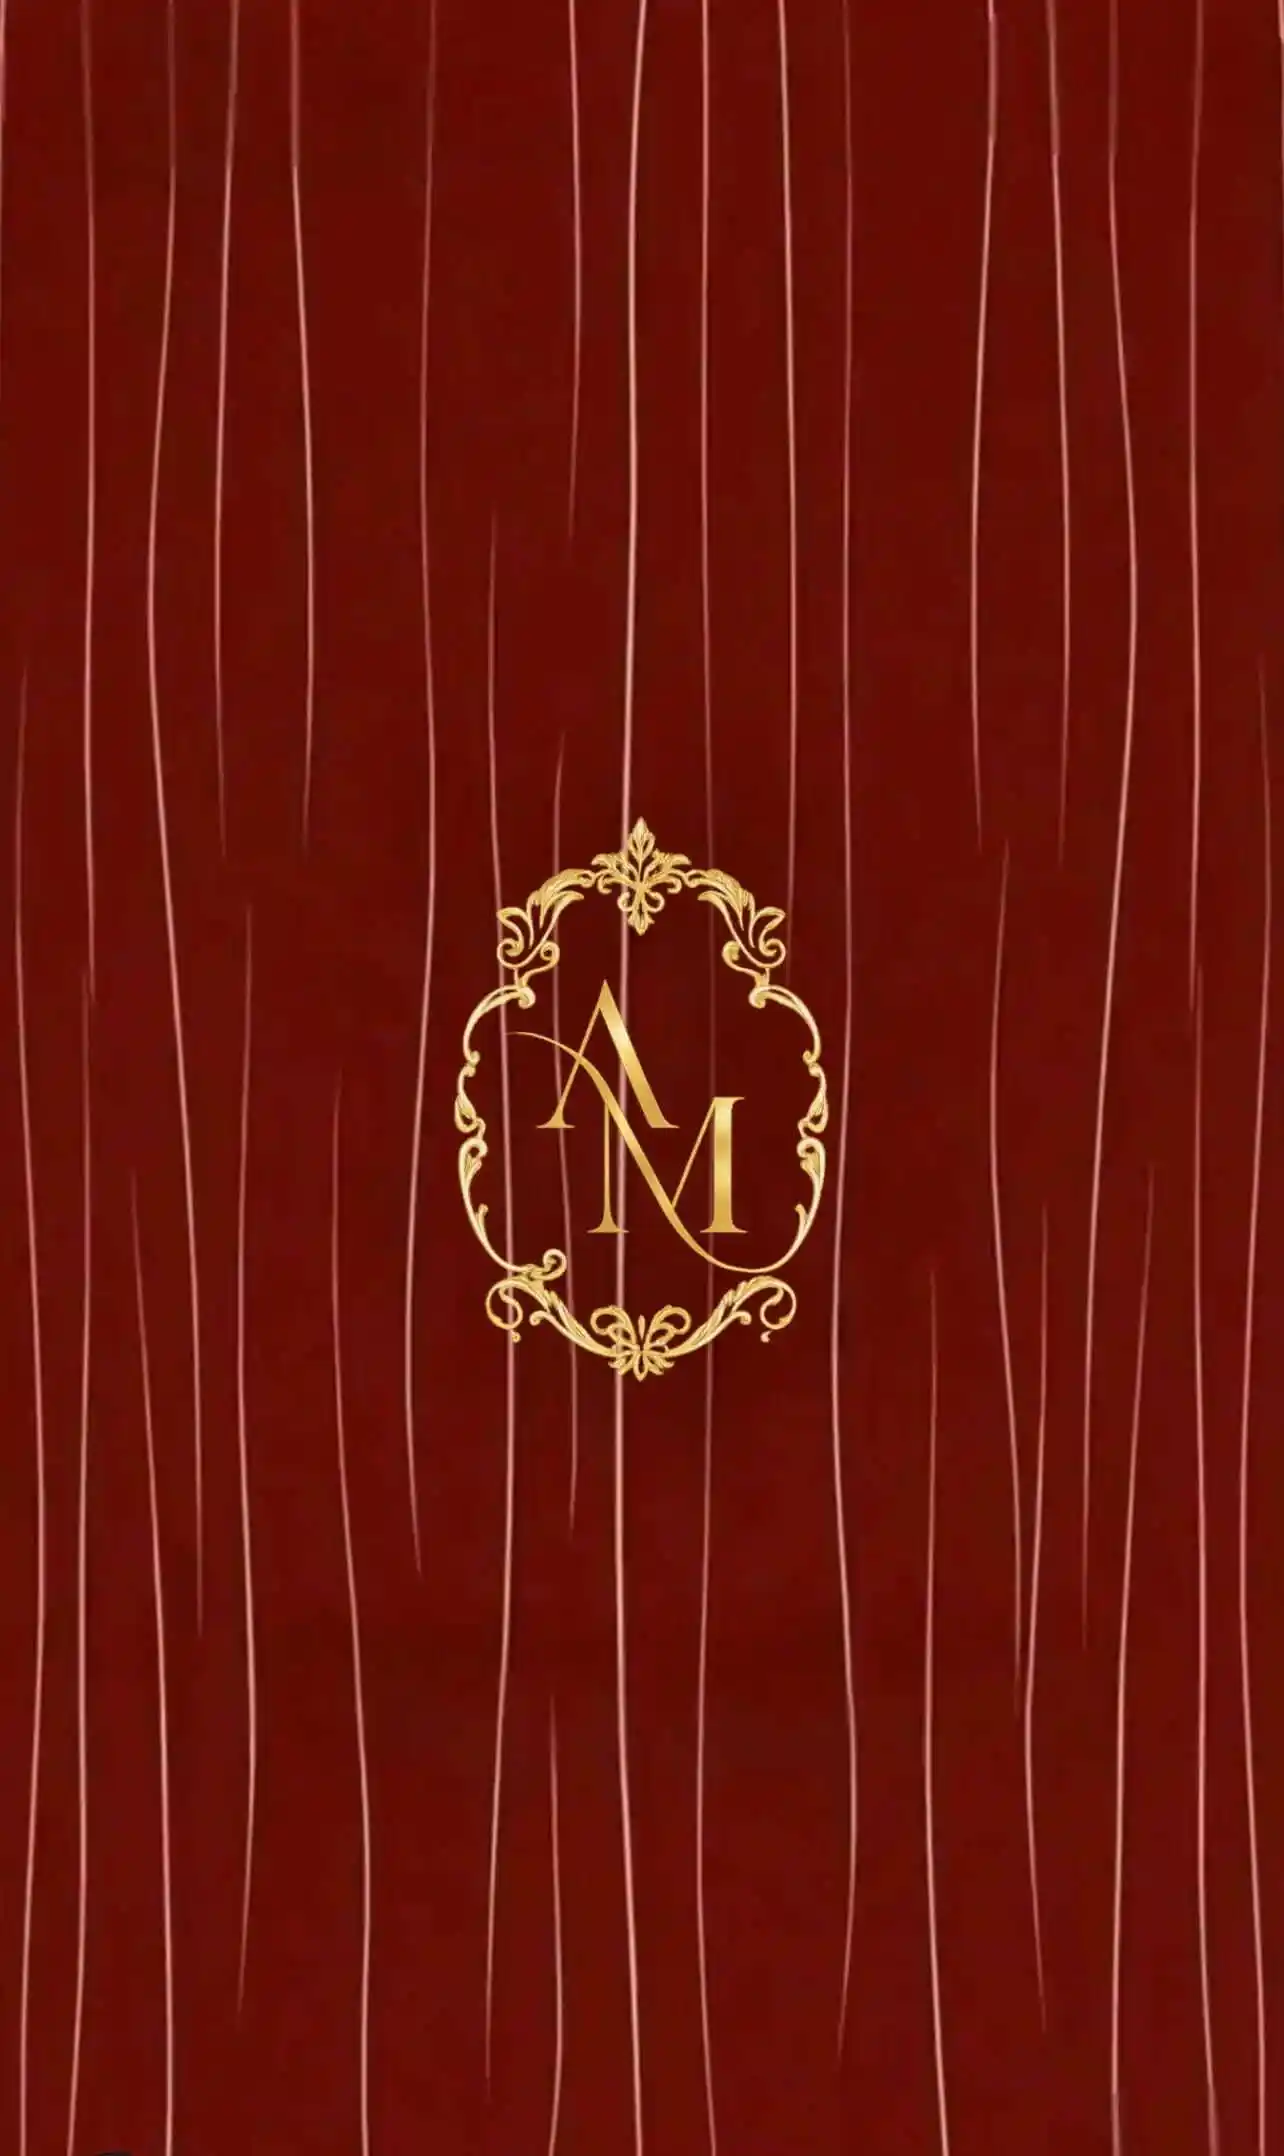
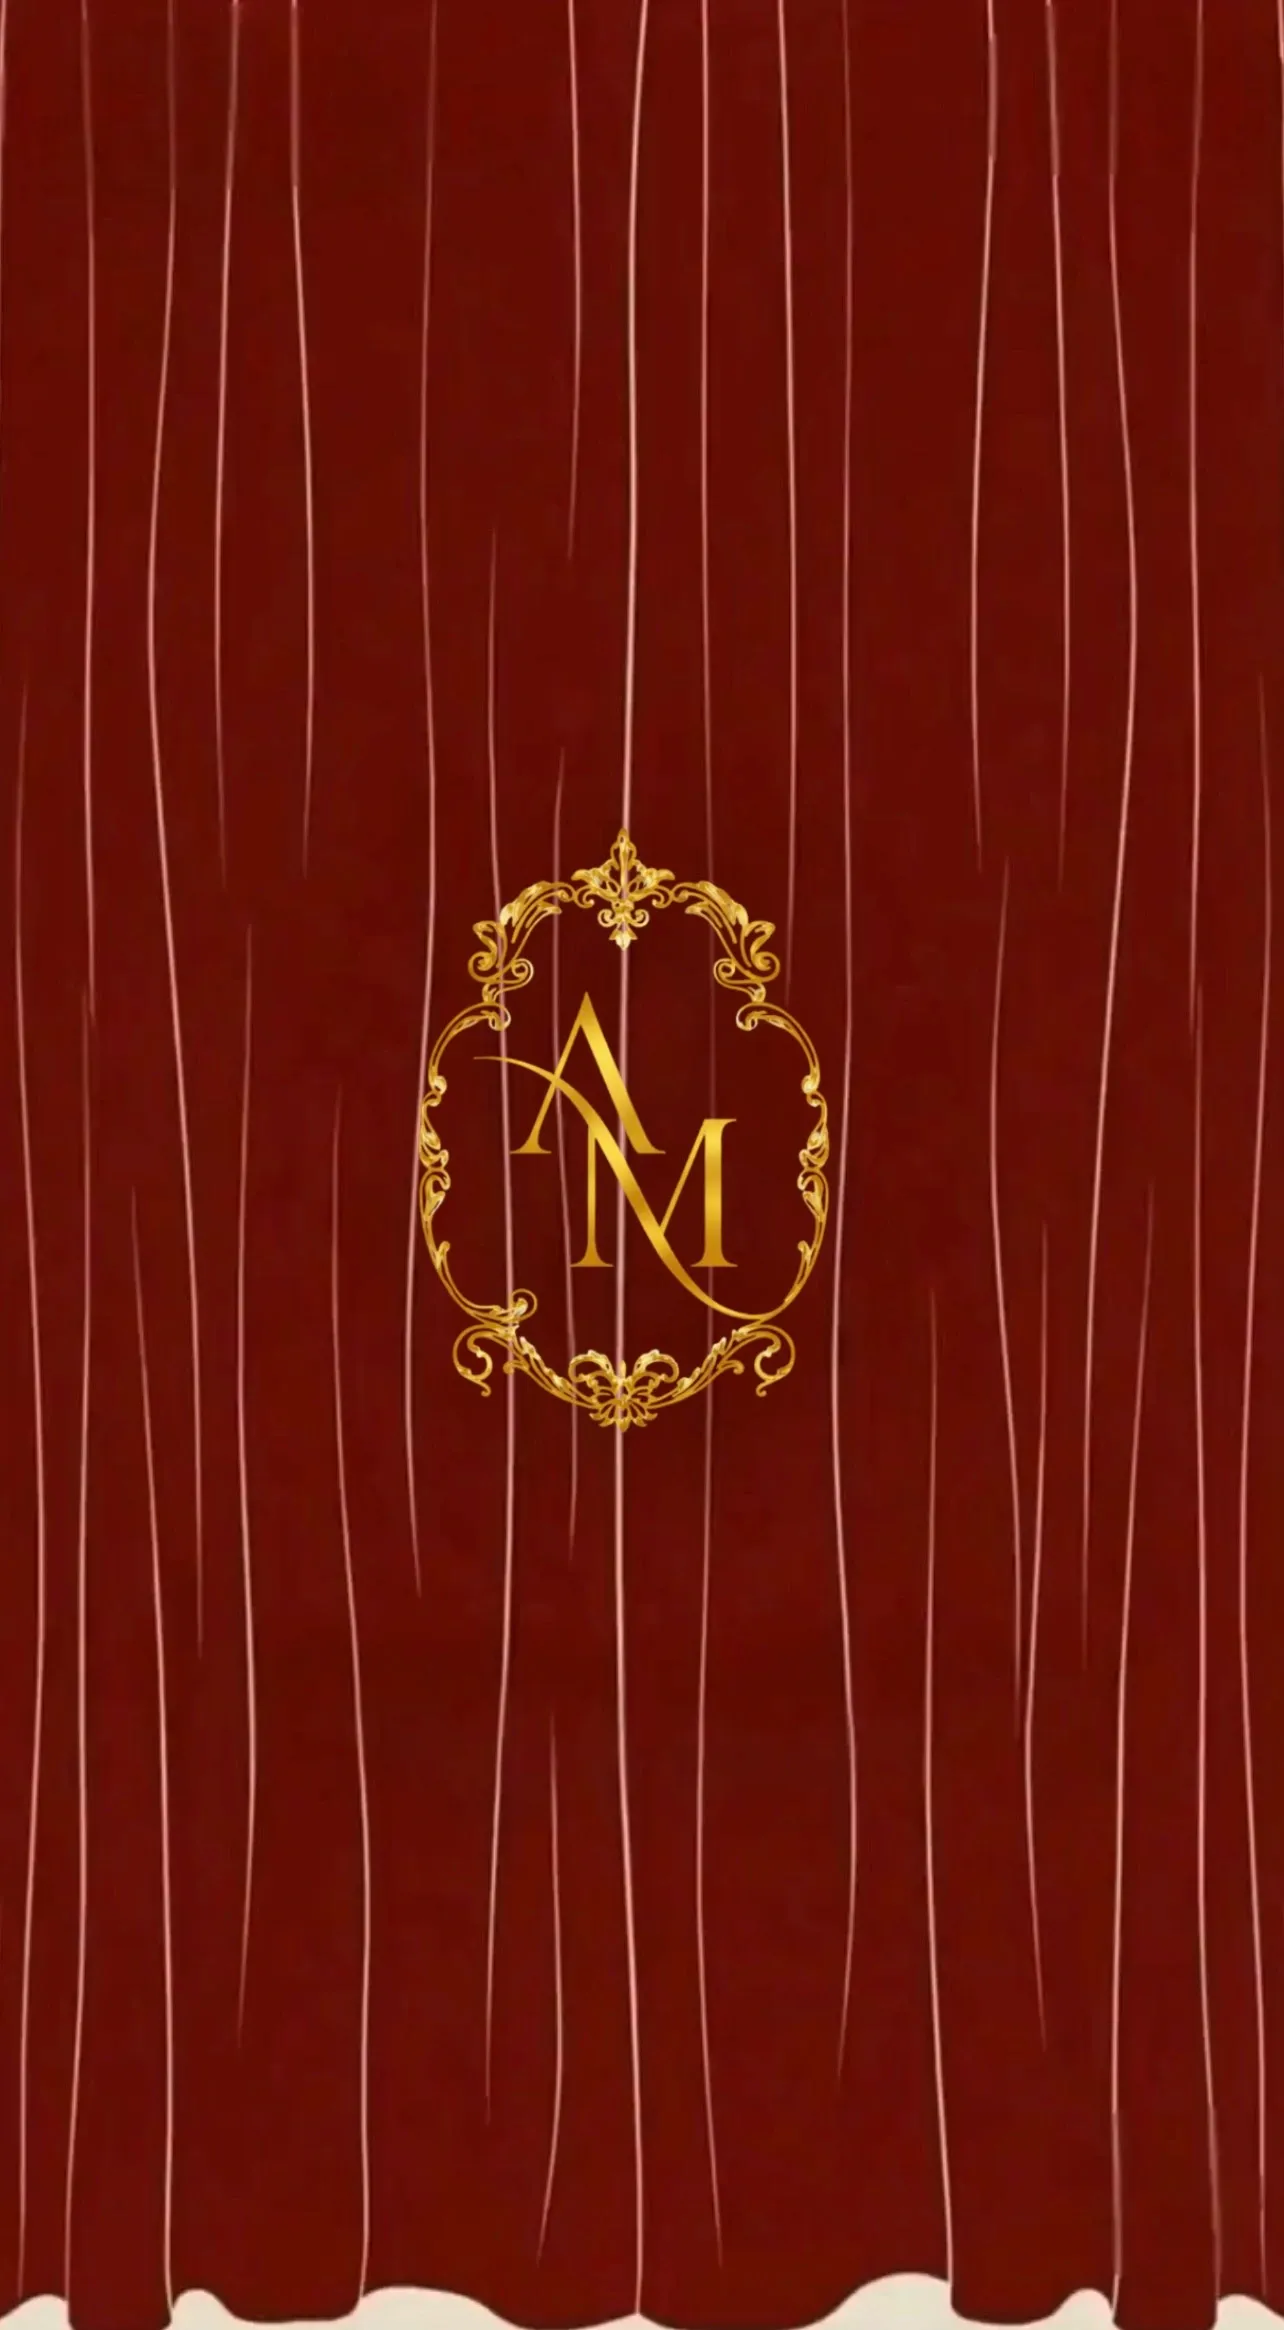
first commit

diff --git a/components/pro-animated-engagement-page.tsx b/components/pro-animated-engagement-page.tsx
@@ -232,7 +232,7 @@ const SectionDivider = ({ variant }: { variant: SectionDividerVariant }) => {
   )
 }
 
-const AnimatedRedHeart = ({ className = "" }: { className?: string }) => {
+const AnimatedRedHeart = ({ className = "", filled = true }: { className?: string; filled?: boolean }) => {
   return (
     <motion.span
       className={`text-3xl text-[#661314] drop-shadow-lg ${className}`}
@@ -244,7 +244,7 @@ const AnimatedRedHeart = ({ className = "" }: { className?: string }) => {
       }}
       style={{ fontFamily: 'Arial, sans-serif' }}
     >
-      ♥
+      {filled ? '♥' : '♡'}
     </motion.span>
   )
 }
@@ -444,7 +444,7 @@ export default function ProAnimatedEngagementPage({ onImageLoad, introFinished }
 
             <p className="font-handwritten text-3xl md:text-4xl text-[#661314]/80 mt-4 leading-[1.2] inline-flex items-center justify-center gap-3">
               <span>{t('countdownSubtitle')}</span>
-              <AnimatedRedHeart className="-translate-y-1 text-4xl" />
+              <AnimatedRedHeart className="-translate-y-0.5 text-2xl" filled={false} />
             </p>
           </div>
         </section>
@@ -585,8 +585,8 @@ export default function ProAnimatedEngagementPage({ onImageLoad, introFinished }
                   <div
                     className={`flex flex-col justify-center ${
                       isRTL
-                        ? 'pl-0 md:pl-0 text-center items-center translate-x-1 md:translate-x-2'
-                        : 'pr-0 md:pr-0 text-center items-center translate-x-1 md:translate-x-2'
+                        ? 'pl-0 md:pl-0 text-center items-center translate-x-4 md:translate-x-6'
+                        : 'pr-0 md:pr-0 text-center items-center translate-x-4 md:translate-x-6'
                     }`}
                   >
                     {isLeft ? (
@@ -617,8 +617,8 @@ export default function ProAnimatedEngagementPage({ onImageLoad, introFinished }
                   <div
                     className={`flex flex-col justify-center ${
                       isRTL
-                        ? 'pr-0 md:pr-0 text-center items-center -translate-x-1 md:-translate-x-2'
-                        : 'pl-0 md:pl-0 text-center items-center -translate-x-1 md:-translate-x-2'
+                        ? 'pr-0 md:pr-0 text-center items-center -translate-x-4 md:-translate-x-6'
+                        : 'pl-0 md:pl-0 text-center items-center -translate-x-4 md:-translate-x-6'
                     }`}
                   >
                     {!isLeft ? (
@@ -762,9 +762,9 @@ export default function ProAnimatedEngagementPage({ onImageLoad, introFinished }
                   <div className="mt-5 w-24 h-px bg-gradient-to-r from-transparent via-[#661314]/30 to-transparent mx-auto" />
                 </div>
 
-                <div className="mt-4 flex-1 flex flex-col justify-center gap-6 text-center -translate-y-8">
+                <div className="mt-2 flex-1 flex flex-col justify-center gap-5 text-center -translate-y-12 md:-translate-y-16">
                   <div className="flex flex-col items-center">
-                    <p className="font-serif text-[14px] md:text-base font-bold text-[#661314]/90 leading-snug max-w-[46ch]">
+                    <p className="font-serif text-[16px] md:text-lg font-bold text-[#661314]/90 leading-snug max-w-[46ch]">
                       {t('kidsNotAllowed')}
                     </p>
                   </div>
@@ -777,7 +777,7 @@ export default function ProAnimatedEngagementPage({ onImageLoad, introFinished }
                   </div>
 
                   <div className="flex flex-col items-center">
-                    <p className="font-serif text-[15px] md:text-lg font-bold text-[#661314]/90 italic leading-relaxed max-w-[32ch] whitespace-pre-line">
+                    <p className="font-serif text-[17px] md:text-xl font-bold text-[#661314]/90 italic leading-relaxed max-w-[32ch] whitespace-pre-line">
                       {t('parkGarageNote')}
                     </p>
                   </div>
@@ -790,7 +790,7 @@ export default function ProAnimatedEngagementPage({ onImageLoad, introFinished }
                   </div>
 
                   <div className="flex flex-col items-center">
-                    <p className="font-serif text-[14px] md:text-base font-bold text-[#661314]/90 leading-snug max-w-[46ch] whitespace-pre-line">
+                    <p className="font-serif text-[16px] md:text-lg font-bold text-[#661314]/90 leading-snug max-w-[46ch] whitespace-pre-line">
                       {t('montazahGardensNote')}
                     </p>
                   </div>
@@ -800,6 +800,7 @@ export default function ProAnimatedEngagementPage({ onImageLoad, introFinished }
           </motion.div>
         </div>
       </motion.section>
+
 
       {/* Footer */}
       <motion.footer
@@ -834,9 +835,9 @@ export default function ProAnimatedEngagementPage({ onImageLoad, introFinished }
           </div>
         </div>
       </motion.footer>
-      {/* Watermark Section */}
+     {/* Watermark Section */}
       <motion.div
-        className="flex justify-center pb-0 -mt-0"
+        className="flex justify-center pb-0 -mt-24 -mb-16 relative z-0"
         initial={{ opacity: 0 }}
         whileInView={{ opacity: 1 }}
         viewport={{ once: true }}
@@ -844,9 +845,9 @@ export default function ProAnimatedEngagementPage({ onImageLoad, introFinished }
         <Image
           src="/letters.png"
           alt="Watermark"
-          width={300}
-          height={300}
-          className="mix-blend-multiply"
+          width={220}
+          height={220}
+          className="mix-blend-multiply opacity-100"
         />
       </motion.div>
 

diff --git a/components/video-intro.tsx b/components/video-intro.tsx
@@ -65,7 +65,7 @@ export default function VideoIntro({ onComplete, onSkip }: VideoIntroProps) {
           <motion.img
             src="/letters.png"
             alt={t('tapToContinue')}
-            className="w-70 md:w-68 max-w-[80vw] h-auto drop-shadow-[0_8px_24px_rgba(0,0,0,0.7)] mix-blend-multiply"
+            className="w-70 md:w-68 max-w-[80vw] h-auto drop-shadow-[0_8px_24px_rgba(0,0,0,0.7)] mix-blend-multiply mr-3 md:mr-12"
             onLoad={() => setIsLettersReady(true)}
             animate={{
               opacity: [0.85, 1, 0.85],
